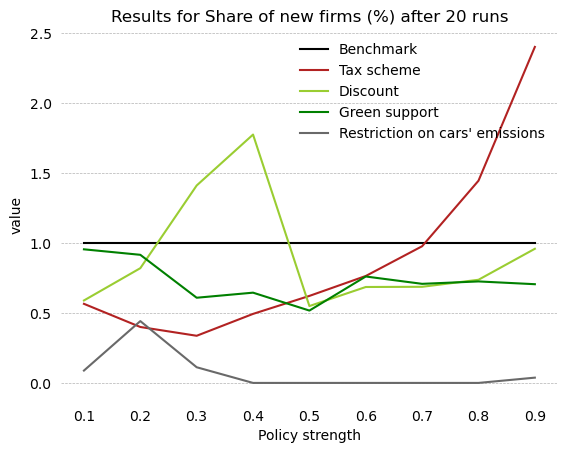
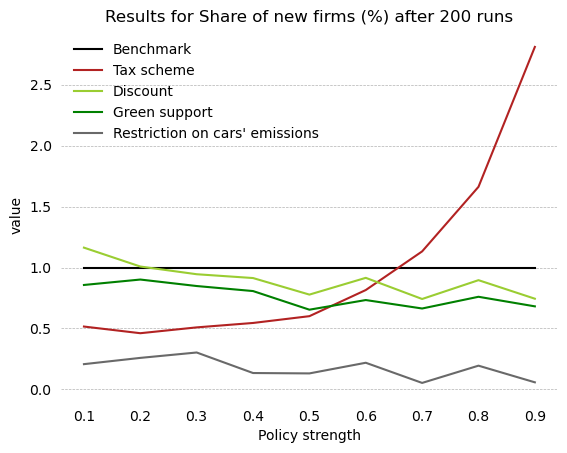
16 minutes.

diff --git a/generalization.py b/generalization.py
@@ -21,7 +21,7 @@ policies_titles = {None: ['Benchmark', 'black'],
                    'discount': ['Discount', 'yellowgreen'],
                    'green_support': ['Green support', 'green'],
                    'max_e': ["Restriction on cars' emissions", 'dimgrey']}
-verbose = True
+verbose = False
 seed = False
 
 
@@ -66,7 +66,7 @@ def plotting(results, n):
         ax.set(xlabel='T periods', ylabel='value',
                title=f'Results after {n} runs using policy: {policies_titles[pol][0]}')
         plt.savefig(f'results/{pol}.png', bbox_inches='tight')
-        plt.show()
+        # plt.show()
     return res
 
 
@@ -98,12 +98,12 @@ def plot_policies(results, levels, n):
         ax = plot_details(ax)
         ax.set(xlabel='Policy strength', ylabel='value', title=f'Results for {notes[graph][0]} after {n} runs')
         plt.savefig(f'policy_stringent_figures/{graph}.png', bbox_inches='tight')
-        plt.show()
+        # plt.show()
     return results
 
 
 def policies(n=10, n_jobs=1):
-    levels = [round(lev, 1) for lev in linspace(.1, .9, 2)]
+    levels = [round(lev, 1) for lev in linspace(.1, .9, 9)]
     pols = [None, 'tax', 'discount', 'green_support', 'max_e']
     results = dict()
     for pol in pols:
@@ -139,9 +139,10 @@ def benchmark(n=10):
 
 if __name__ == '__main__':
     t0 = time.time()
-    m = 4
-    jobs = 4
-    # benchmark(m)
+    m = 200
+    # Number of jobs is cpus that will run simultaneously
+    jobs = 16
+    benchmark(m)
     r, l, m = policies(m, jobs)
     plot_policies(r, l, m)
     print(f'This run took {time.time() - t0:.2f} seconds!')
